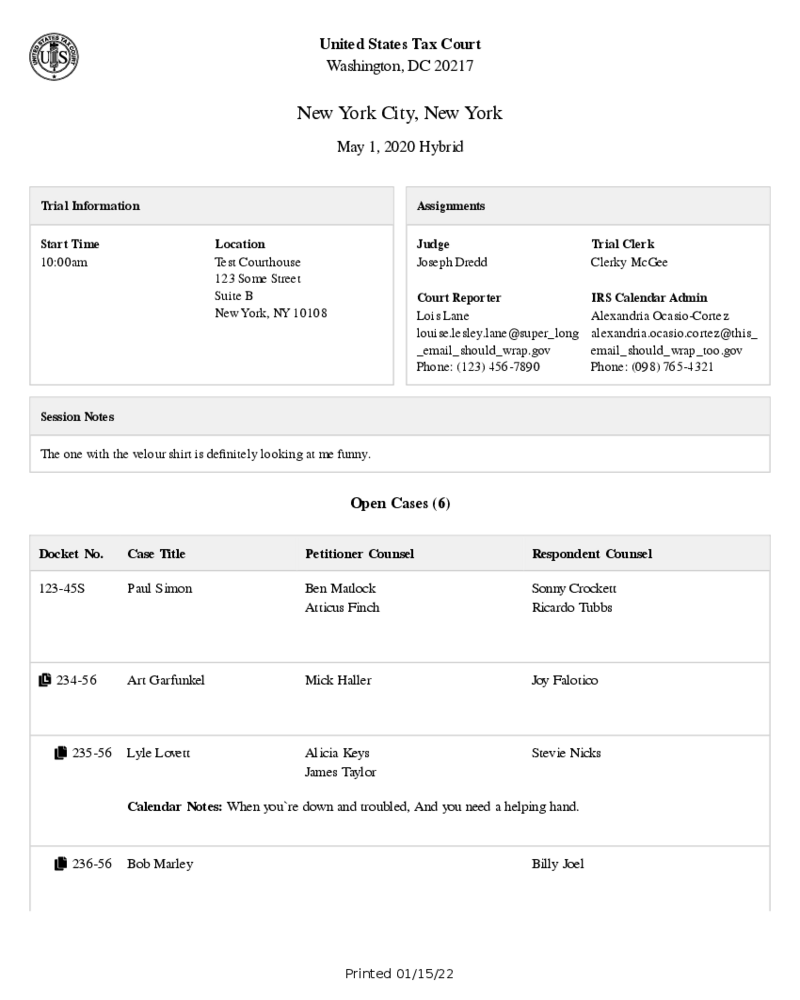
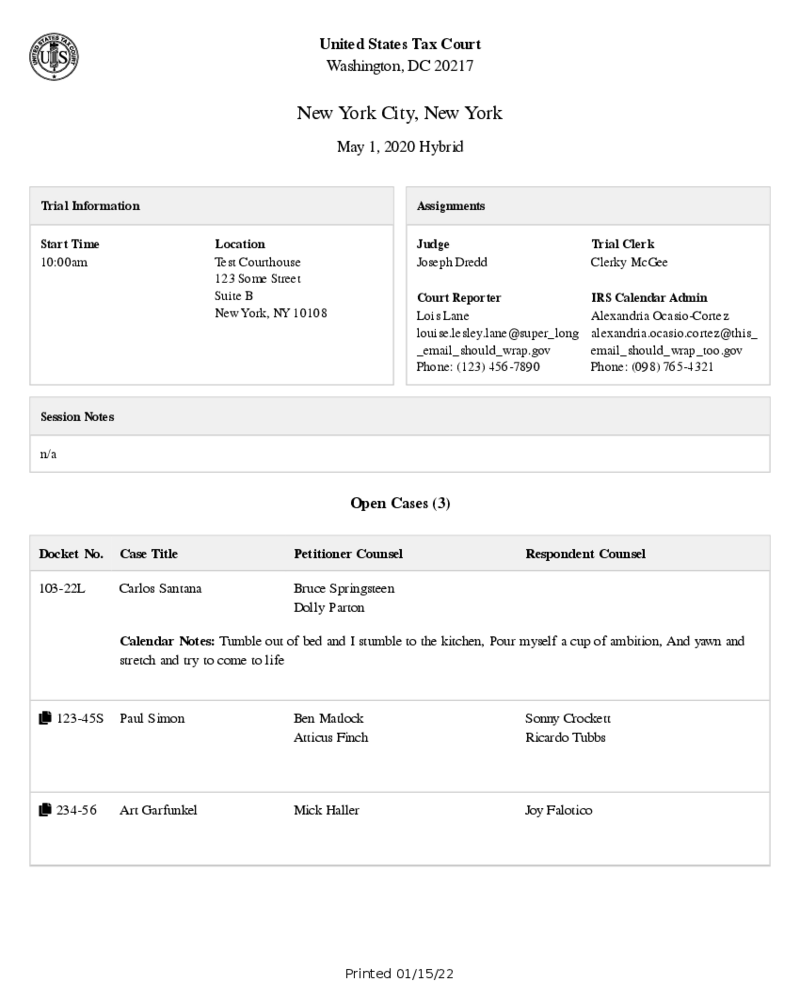
9788: Update visual test and comparison image

Changed region(s): [[0.0312, 0.527, 0.9688, 0.868], [0.0312, 0.434, 0.4688, 0.465]]

diff --git a/shared/src/business/utilities/documentGenerators/trialCalendar.test.ts b/shared/src/business/utilities/documentGenerators/trialCalendar.test.ts
@@ -18,6 +18,7 @@ describe('trialCalendar', () => {
               inConsolidatedGroup: false,
               petitionerCounsel: ['Ben Matlock', 'Atticus Finch'],
               respondentCounsel: ['Sonny Crockett', 'Ricardo Tubbs'],
+              shouldIndent: undefined,
             },
             {
               caseTitle: 'Art Garfunkel',
@@ -28,6 +29,7 @@ describe('trialCalendar', () => {
               leadDocketNumber: '234-56',
               petitionerCounsel: ['Mick Haller'],
               respondentCounsel: ['Joy Falotico'],
+              shouldIndent: undefined,
             },
             {
               calendarNotes:
@@ -40,6 +42,7 @@ describe('trialCalendar', () => {
               leadDocketNumber: '234-56',
               petitionerCounsel: ['Alicia Keys', 'James Taylor'],
               respondentCounsel: ['Stevie Nicks'],
+              shouldIndent: true,
             },
             {
               caseTitle: 'Bob Marley',
@@ -50,6 +53,7 @@ describe('trialCalendar', () => {
               leadDocketNumber: '234-56',
               petitionerCounsel: undefined,
               respondentCounsel: ['Billy Joel'],
+              shouldIndent: true,
             },
             {
               calendarNotes:
@@ -60,6 +64,7 @@ describe('trialCalendar', () => {
               inConsolidatedGroup: false,
               petitionerCounsel: ['Bruce Springsteen', 'Dolly Parton'],
               respondentCounsel: undefined,
+              shouldIndent: undefined,
             },
             {
               caseTitle: 'Aretha Franklin',
@@ -68,6 +73,7 @@ describe('trialCalendar', () => {
               inConsolidatedGroup: false,
               petitionerCounsel: undefined,
               respondentCounsel: undefined,
+              shouldIndent: undefined,
             },
           ],
           sessionDetail: {
@@ -108,6 +114,7 @@ describe('trialCalendar', () => {
               inConsolidatedGroup: false,
               petitionerCounsel: ['Ben Matlock', 'Atticus Finch'],
               respondentCounsel: ['Sonny Crockett', 'Ricardo Tubbs'],
+              shouldIndent: undefined,
             },
             {
               caseTitle: 'Art Garfunkel',
@@ -118,6 +125,7 @@ describe('trialCalendar', () => {
               leadDocketNumber: '234-56',
               petitionerCounsel: ['Mick Haller'],
               respondentCounsel: ['Joy Falotico'],
+              shouldIndent: undefined,
             },
             {
               calendarNotes:
@@ -130,6 +138,7 @@ describe('trialCalendar', () => {
               leadDocketNumber: '234-56',
               petitionerCounsel: ['Alicia Keys', 'James Taylor'],
               respondentCounsel: ['Stevie Nicks'],
+              shouldIndent: true,
             },
             {
               caseTitle: 'Bob Marley',
@@ -140,6 +149,7 @@ describe('trialCalendar', () => {
               leadDocketNumber: '234-56',
               petitionerCounsel: undefined,
               respondentCounsel: ['Billy Joel'],
+              shouldIndent: true,
             },
             {
               calendarNotes:
@@ -150,6 +160,7 @@ describe('trialCalendar', () => {
               inConsolidatedGroup: false,
               petitionerCounsel: ['Bruce Springsteen', 'Dolly Parton'],
               respondentCounsel: undefined,
+              shouldIndent: undefined,
             },
             {
               caseTitle: 'Aretha Franklin',
@@ -158,15 +169,17 @@ describe('trialCalendar', () => {
               inConsolidatedGroup: false,
               petitionerCounsel: undefined,
               respondentCounsel: undefined,
+              shouldIndent: undefined,
             },
             {
               caseTitle: 'Ziggy Marley',
-              docketNumber: '110-23',
-              docketNumberWithSuffix: '110-23',
+              docketNumber: '111-23',
+              docketNumberWithSuffix: '111-23',
               inConsolidatedGroup: true,
               isLeadCase: false,
               petitionerCounsel: undefined,
               respondentCounsel: undefined,
+              shouldIndent: undefined,
             },
           ],
           sessionDetail: {
